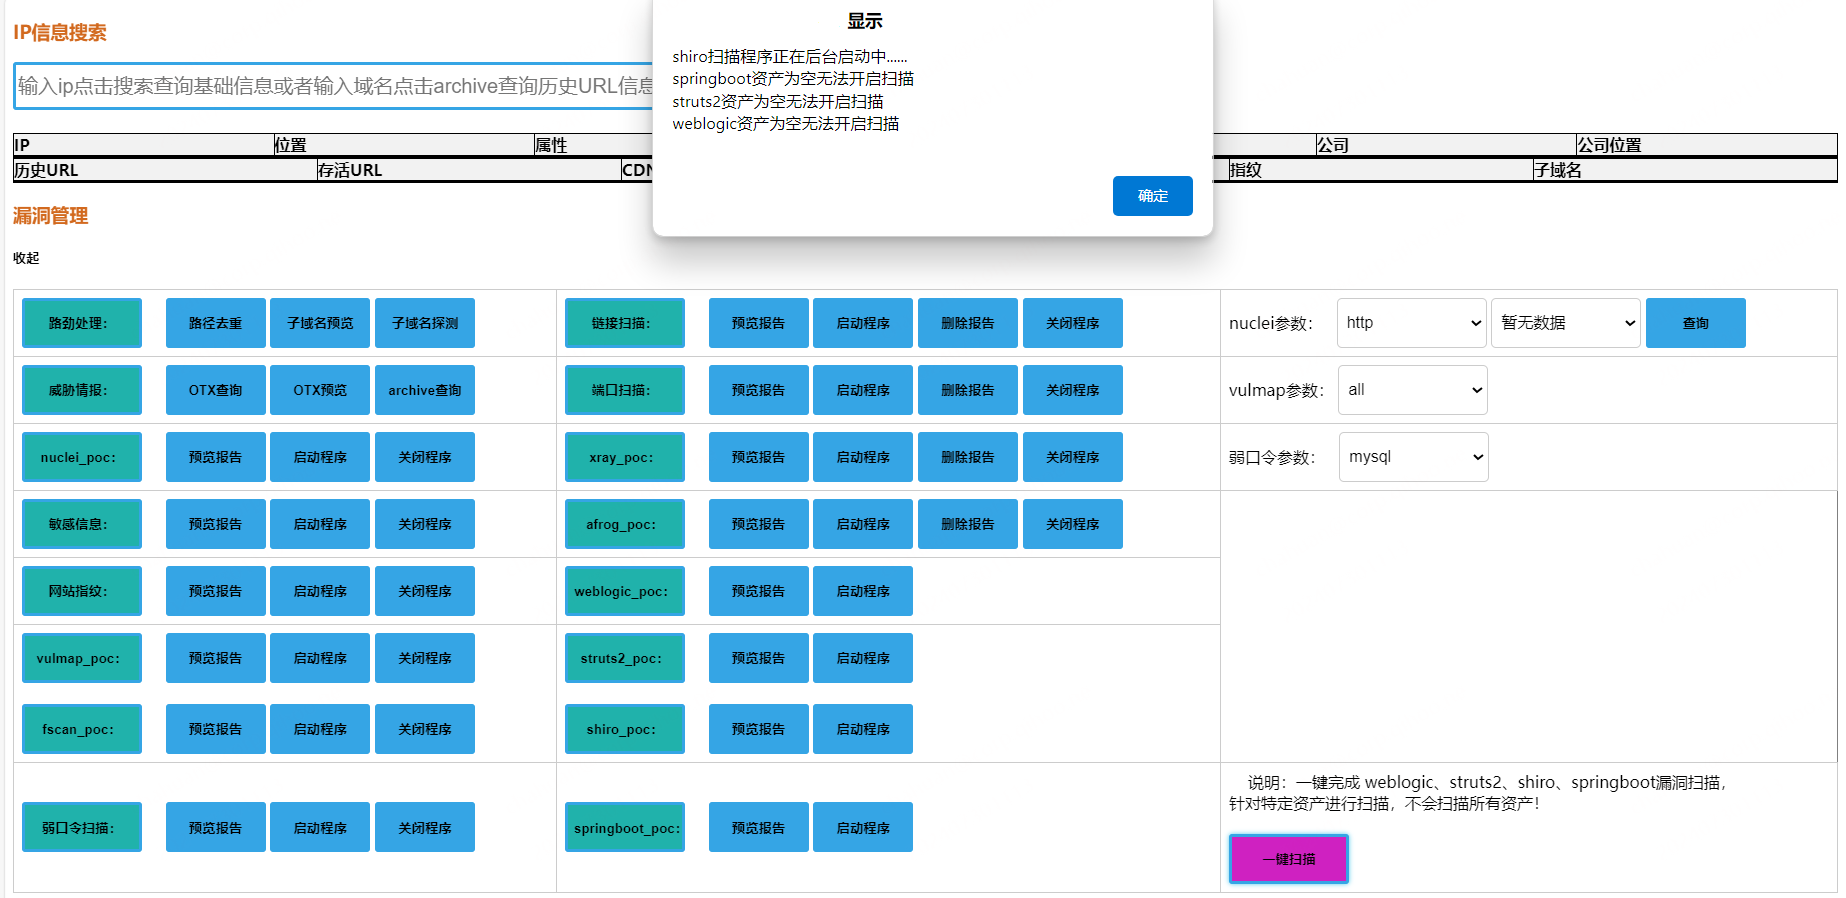
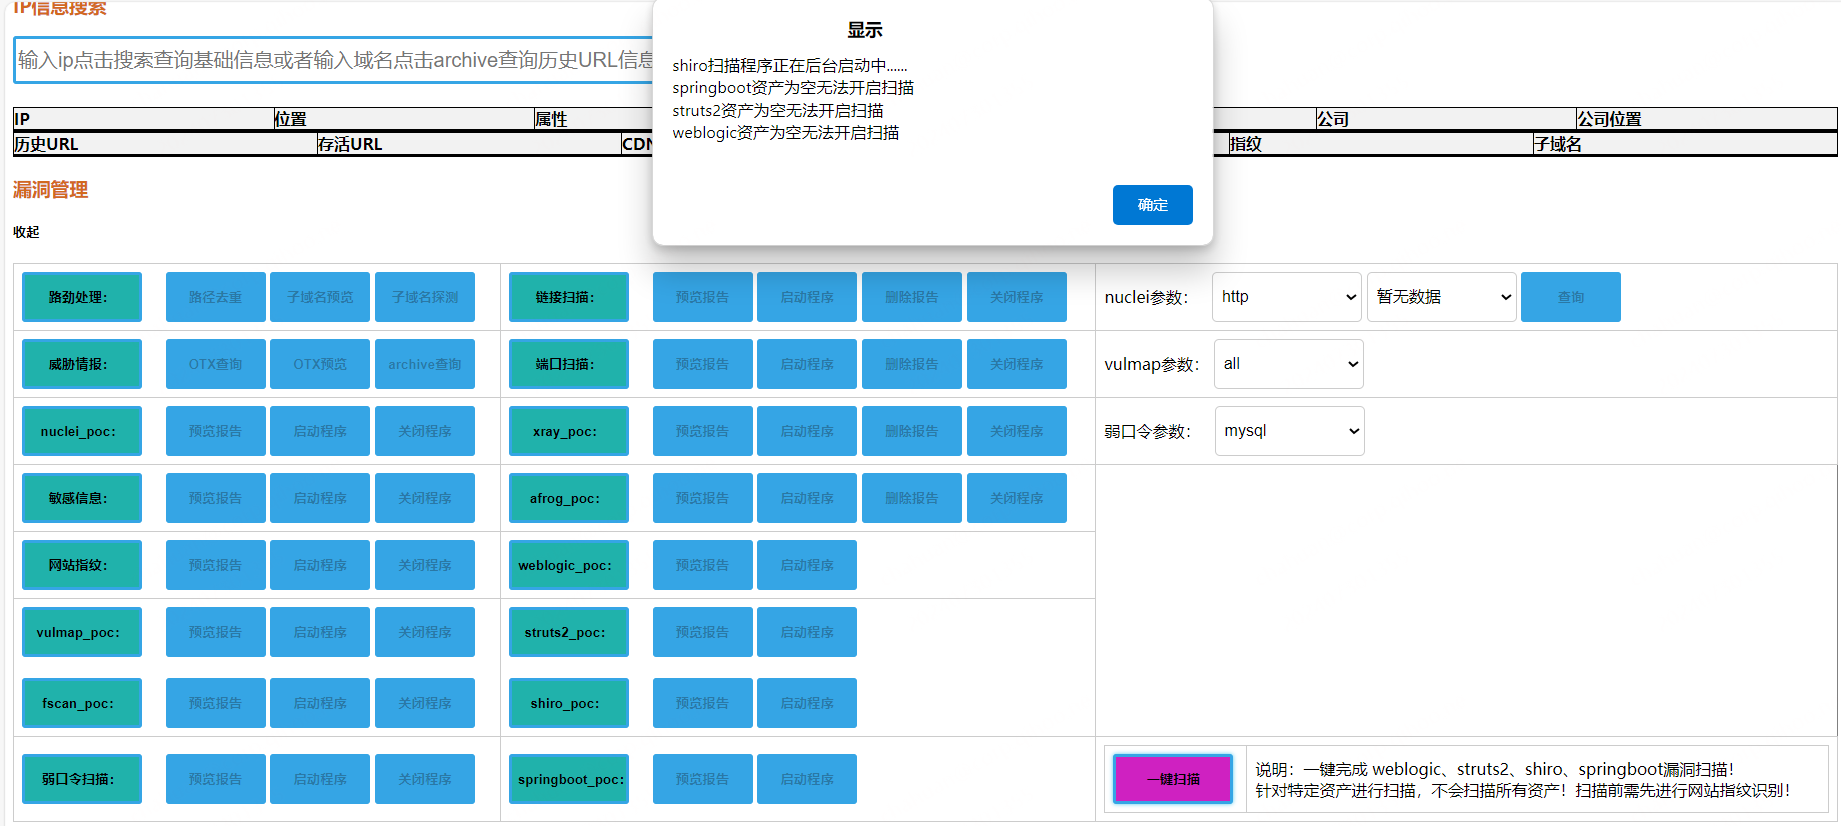
update index.html

Changed region(s): [[0.0, 0.0, 1.0, 0.9988], [0.5883, 0.3329, 1.0, 0.9988]]

diff --git a/templates/index.html b/templates/index.html
@@ -509,8 +509,16 @@
 						<input type="button" id="button53" value="启动程序" onclick="start_springboot_scan_func()" disabled>
 					</td>
 					<td>
-						<span>&nbsp;&nbsp;&nbsp;&nbsp;说明：一键完成 weblogic、struts2、shiro、springboot漏洞扫描， <br> 针对特定资产进行扫描，不会扫描所有资产！</span><br><br>
-						<input type="submit" value="一键扫描" onclick="one_click_scan_func()">
+						<table>
+							<tr>
+								<td><input type="submit" value="一键扫描" onclick="one_click_scan_func()"></td>
+								<td>说明：一键完成 weblogic、struts2、shiro、springboot漏洞扫描！ <br> 针对特定资产进行扫描，不会扫描所有资产！扫描前需先进行网站指纹识别！</td>
+								
+							</tr>
+						</table>
+						
+						<!-- <span>&nbsp;&nbsp;&nbsp;&nbsp;说明：一键完成 weblogic、struts2、shiro、springboot漏洞扫描， <br> 针对特定资产进行扫描，不会扫描所有资产！扫描前需先进行网站指纹识别！</span><br>
+						<input type="submit" value="一键扫描" onclick="one_click_scan_func()"> -->
 					</td>
 				</tr>
 			</table>
